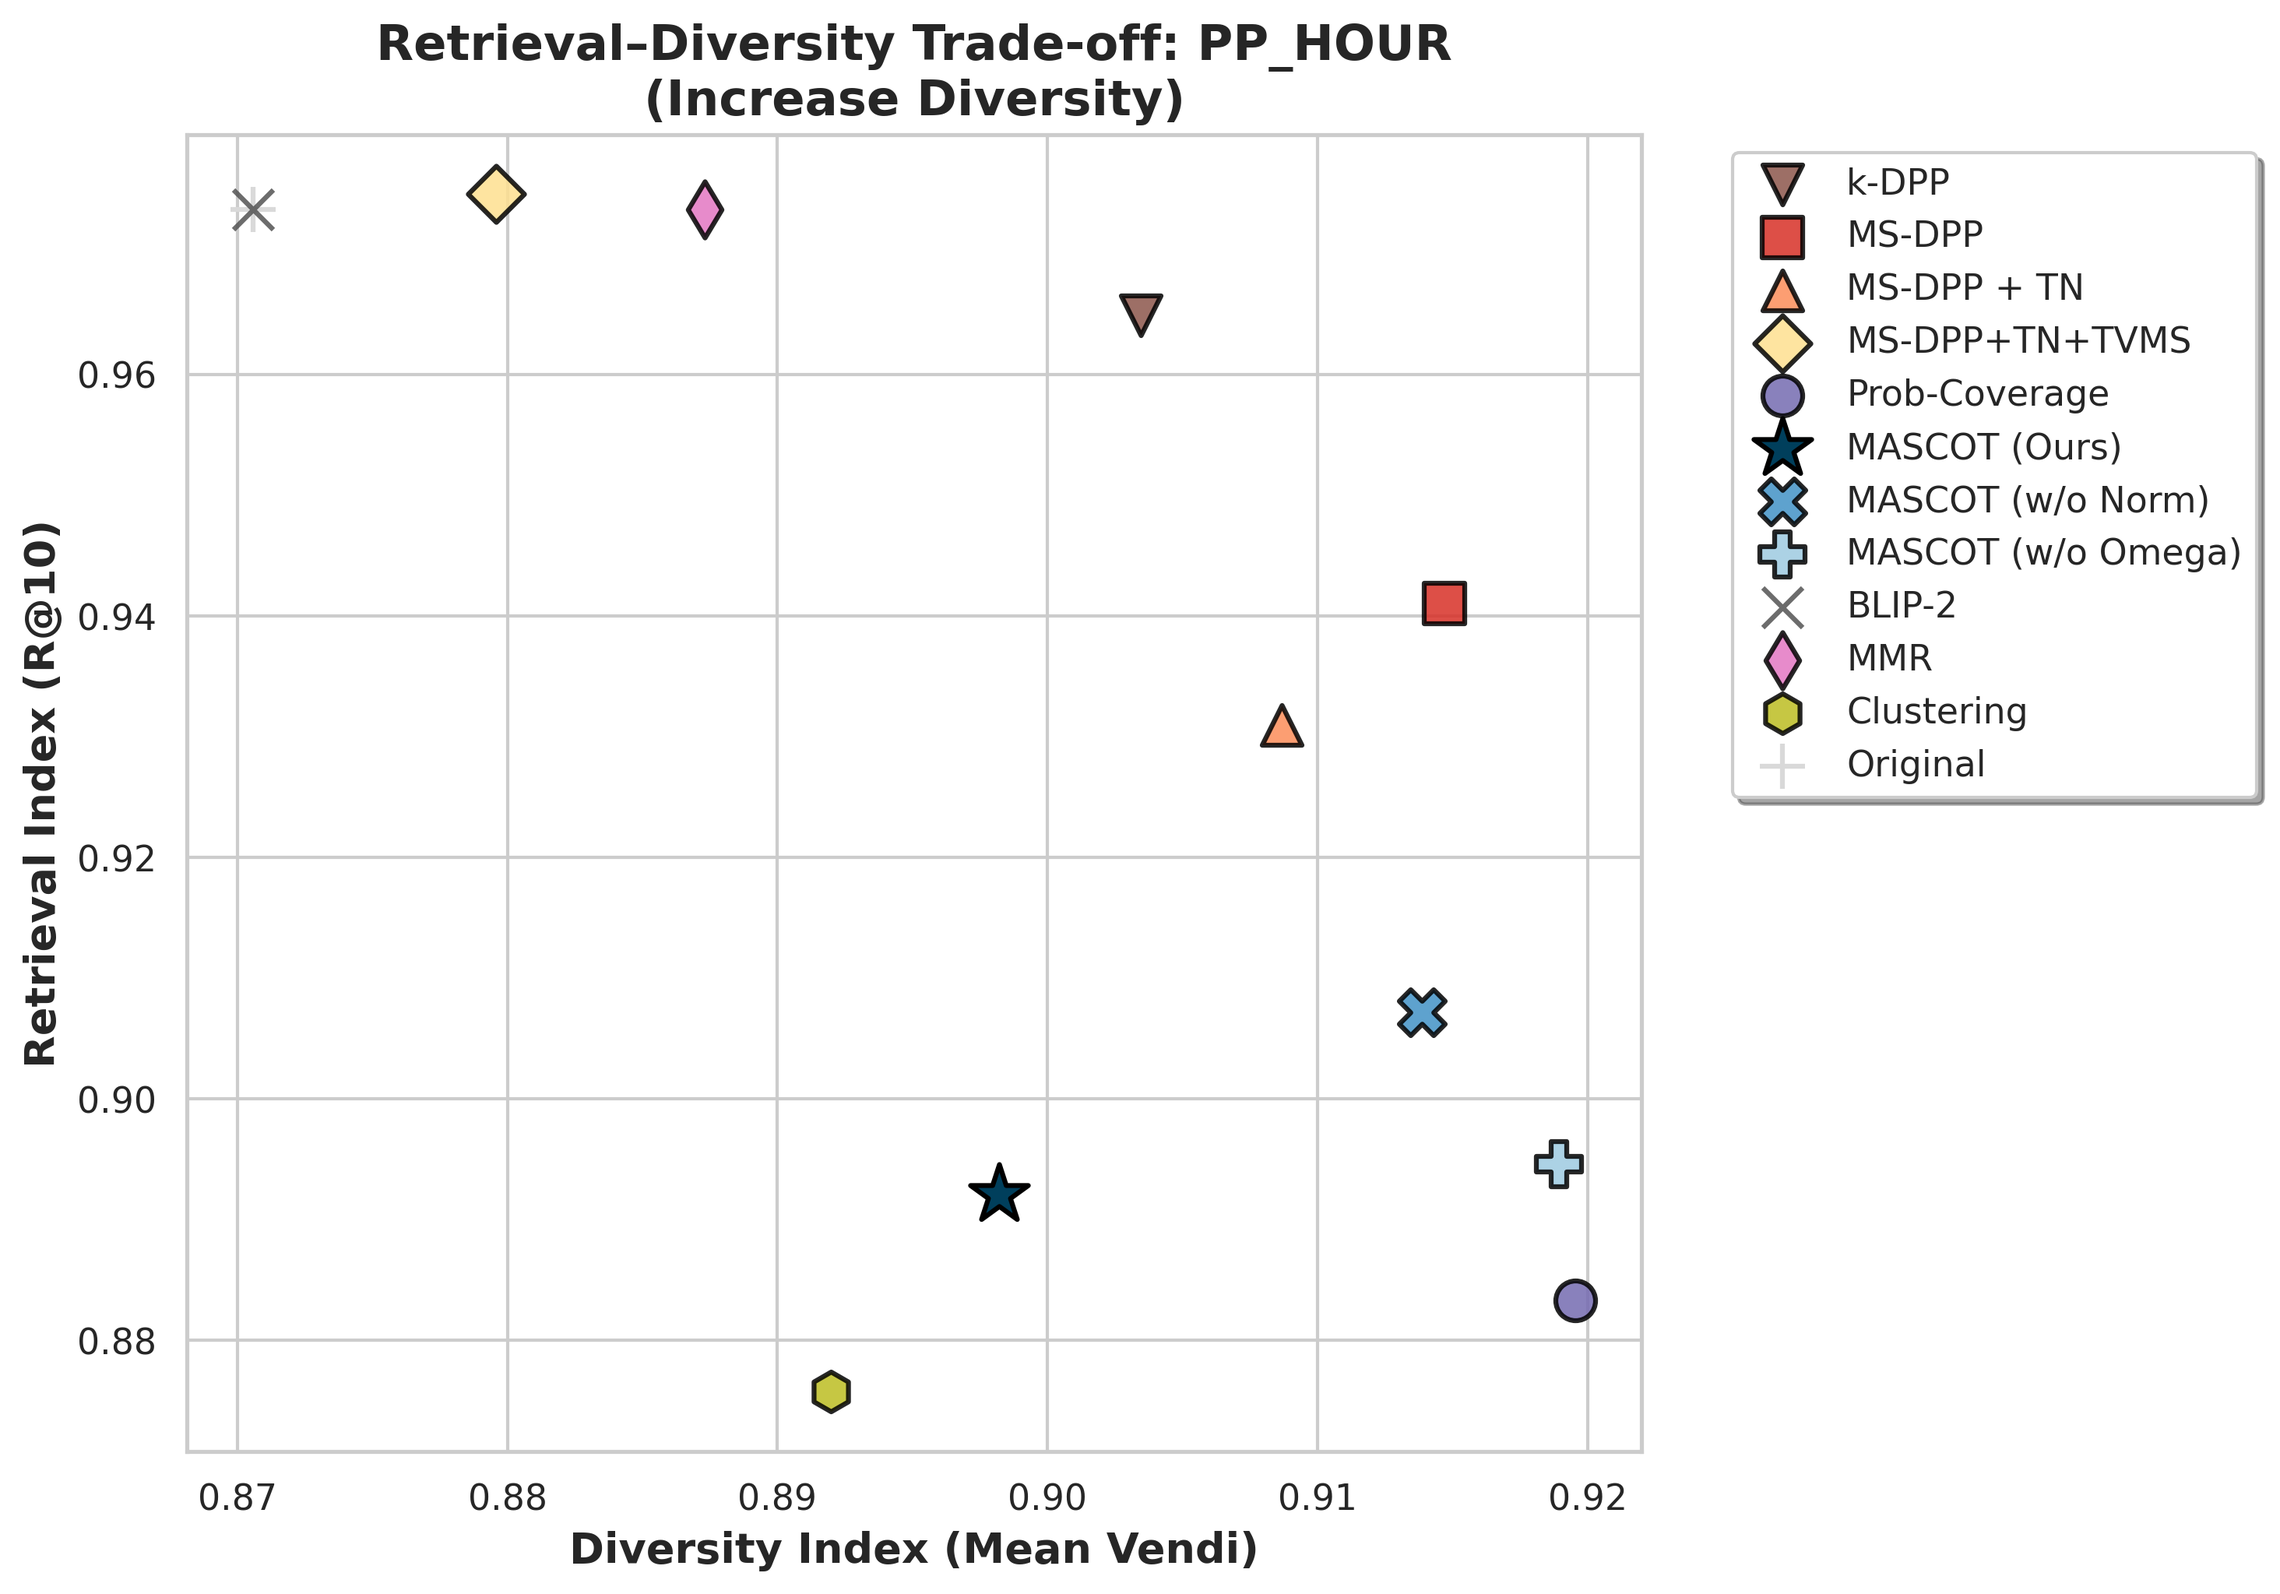
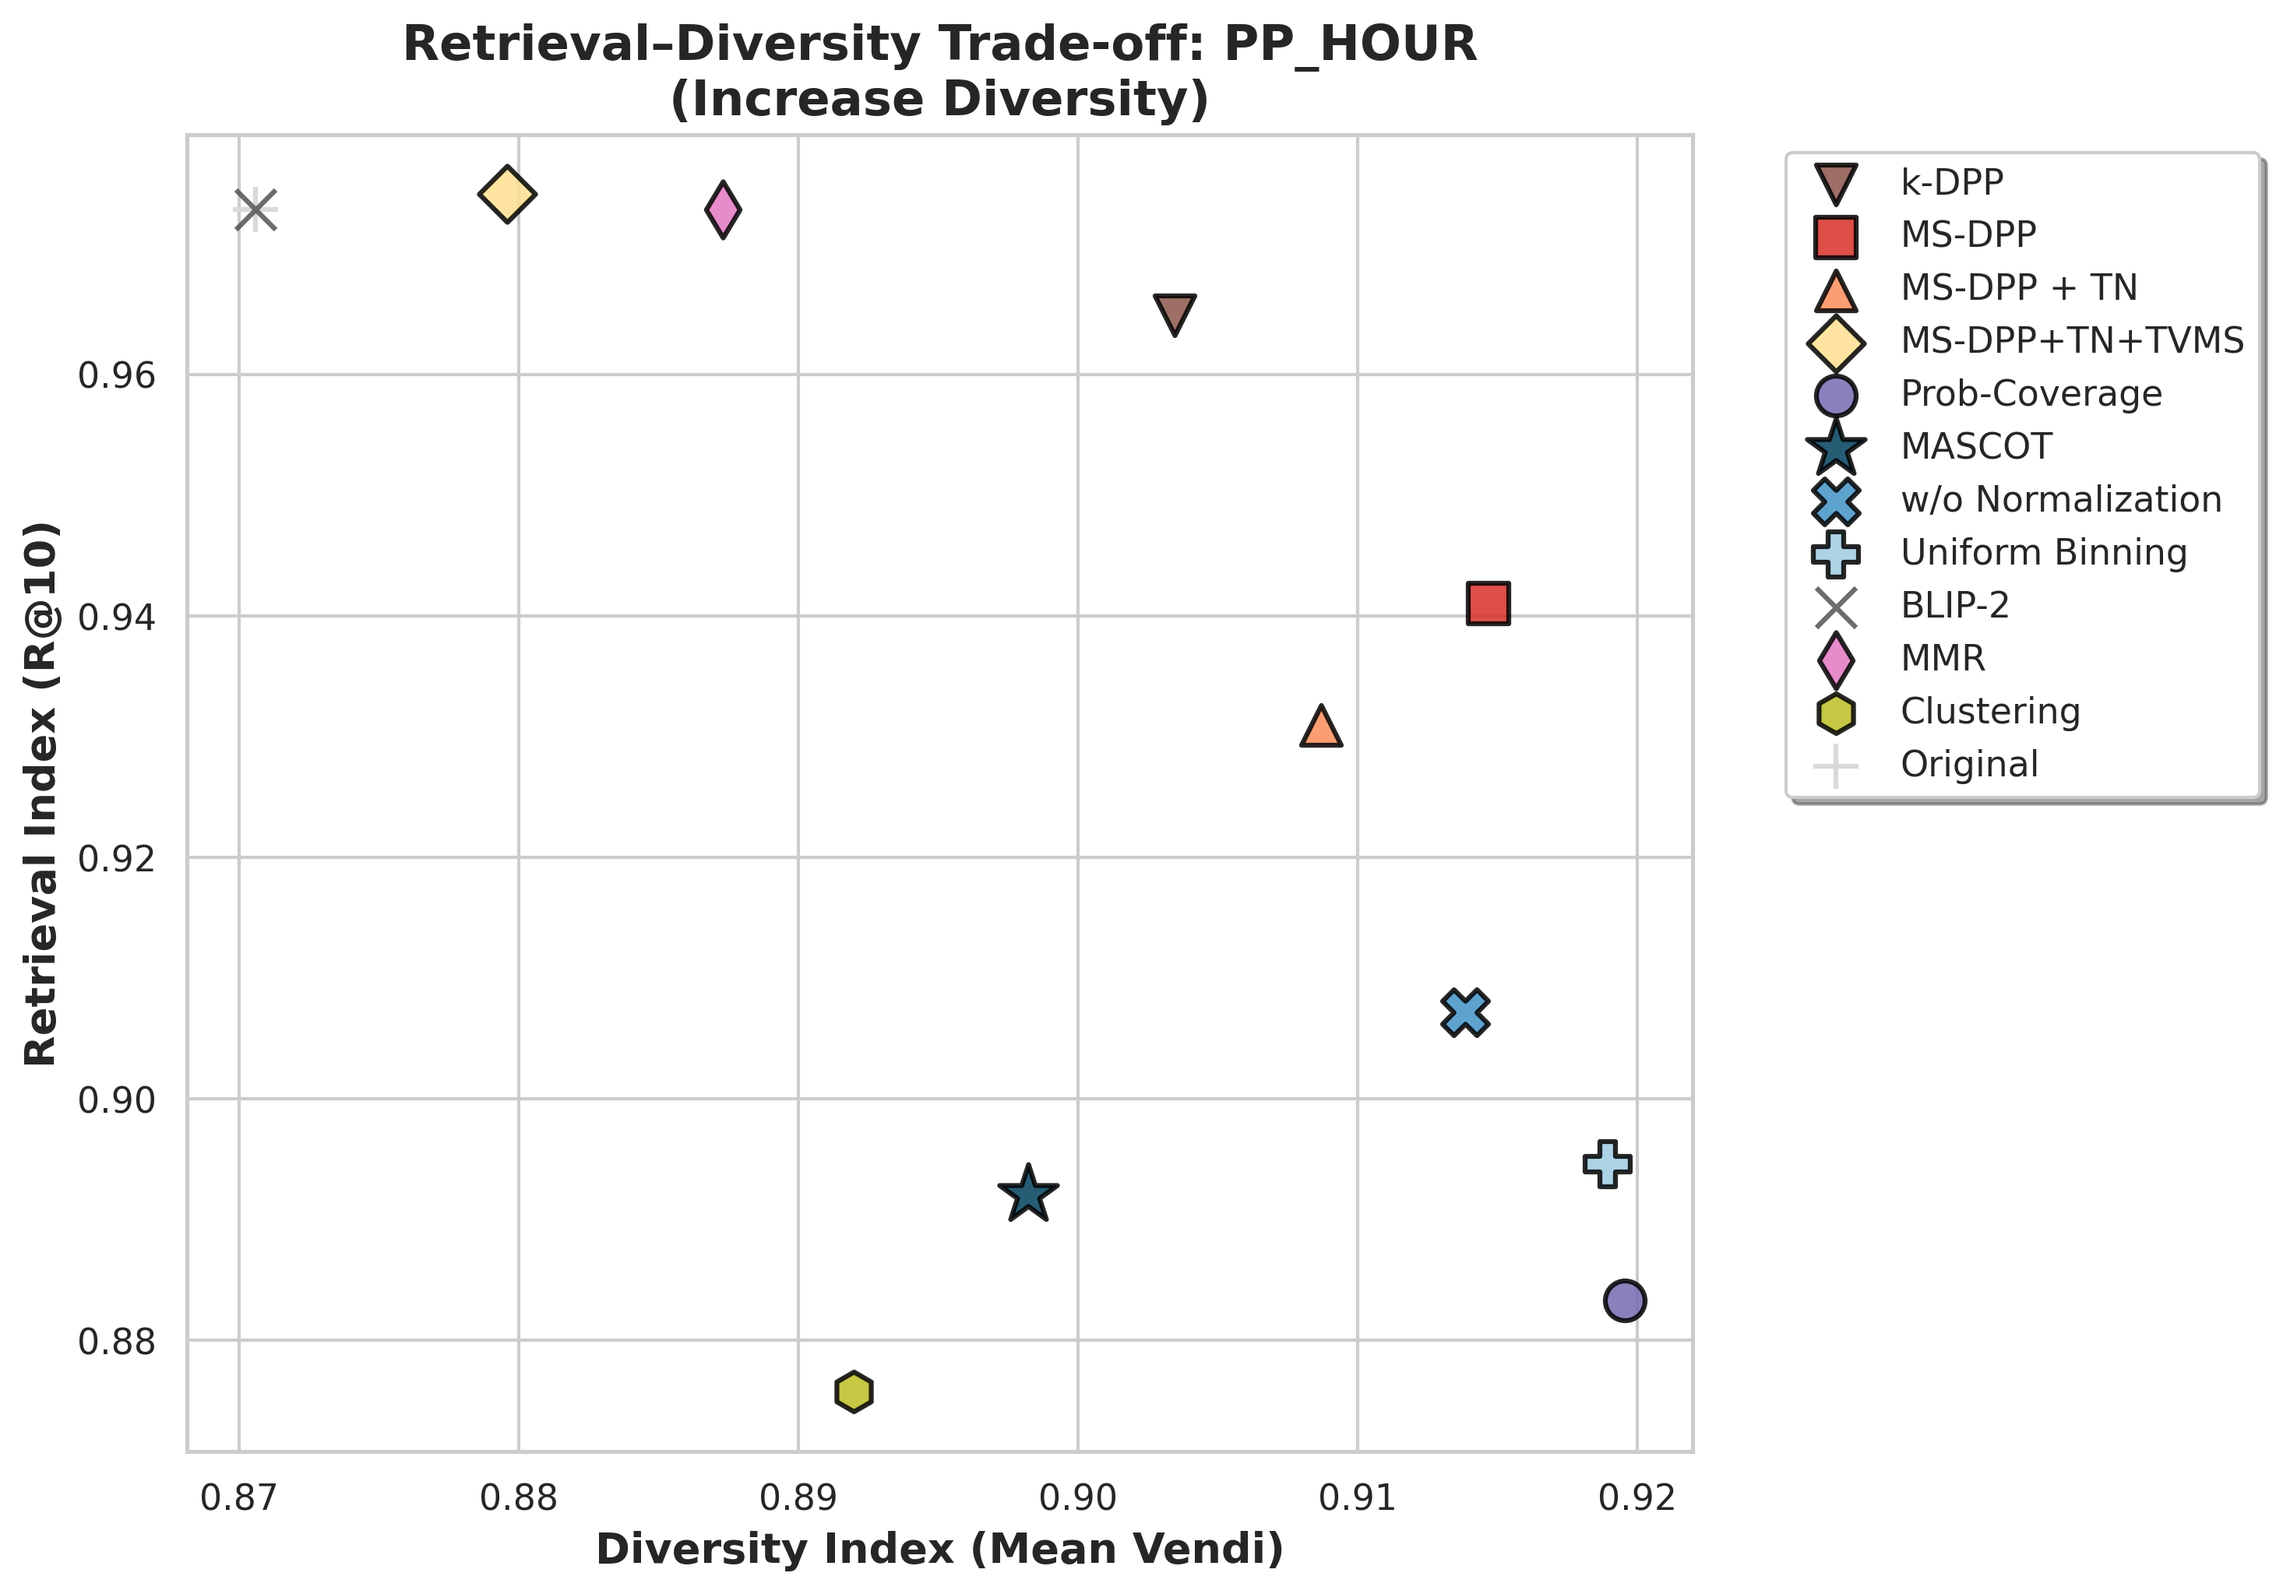
data: regenerate figures, R@1 tables, and top1_integrity SUMMARY after bug fixes
Recall-curve and trade-off plots for all 10 (task, direction) pairs
regenerated using the corrected failure_cases data (see
results/failure_cases_corrected/, added in a follow-up commit).

R@1 tables in figures_regenerated/{pp,vg_i1m}/r_at_1_summary.md now show
the correct MASCOT row (previously showed the Uniform Binning ablation
mislabeled as MASCOT). Also adds explicit 'w/o Normalization' and
'Uniform Binning' rows, matching Table 1's row set.

top1_integrity/SUMMARY.md and principled_displacement.json recomputed
under the fully bug-fixed pipeline. Numbers unchanged (353/356 = 99.2%
principled displacement) — the pre-fix values were correct-by-collision;
these are correct-by-computation and reproducible on any clean run.

diff --git a/results/top1_integrity/SUMMARY.md b/results/top1_integrity/SUMMARY.md
@@ -1,39 +1,3 @@
-# R@1 Top-1 Integrity Analysis — PP datasets, N=200, K=20
-
-MASCOT evaluated at val-HM-best operating points from the paper's grid_search_eval.
-
-## R@1 Summary
-
-| Dataset | Dir | θ | σ_geo | σ_time | BLIP-2 R@1 | MASCOT R@1 | Δ R@1 |
-|---|---|---|---|---|---|---|---|
-| PP_geo_hour | inc | 0.8 | 15.0 | 1.5 | 0.7905 | 0.7553 | -0.0351 |
-| PP_geo_hour | dec | 0.1 | 15.0 | 3.0 | 0.7905 | 0.7202 | -0.0703 |
-| PP_hour | inc | 0.9 | 1.0 | 1.5 | 0.7905 | 0.7227 | -0.0678 |
-| PP_hour | dec | 0.4 | 1.0 | 0.5 | 0.7905 | 0.6688 | -0.1217 |
-| PP_geo | inc | 0.8 | 15.0 | 0.5 | 0.7905 | 0.7553 | -0.0351 |
-| PP_geo | dec | 0.3 | 10.0 | 0.5 | 0.7905 | 0.6048 | -0.1857 |
-
-## Strict Top-1 Preservation
-
-Fraction of queries where BLIP-2 rank-1 = ground truth AND MASCOT rank-1 = the same exact image.
-
-| Dataset | Dir | Queries with BLIP-2 R@1=GT | MASCOT preserves top-1 | Preservation |
-|---|---|---|---|---|
-| PP_geo_hour | inc | 629 | 592 | 592/629 = 0.9412 |
-| PP_geo_hour | dec | 629 | 565 | 565/629 = 0.8983 |
-| PP_hour | inc | 629 | 563 | 563/629 = 0.8951 |
-| PP_hour | dec | 629 | 514 | 514/629 = 0.8172 |
-| PP_geo | inc | 629 | 592 | 592/629 = 0.9412 |
-| PP_geo | dec | 629 | 454 | 454/629 = 0.7218 |
-
-## Verdict
-
-**Decrease tasks** (primary paper claim): max |Δ R@1| = 0.1857  >= 0.02 threshold → EXCEEDS THRESHOLD ✗
-
-**Strict top-1 preservation** across all cells: min=0.7218  max=0.9412
-
-Empirical top-1 integrity is under pressure: the R@1 gap on at least one decrease task exceeds 0.02 (max Δ = 0.1857). The §4.5 top-1 preservation language may need softening or an explicit caveat referencing the Appendix G.2 disclaimer.
-
 ## Principled Displacement Analysis
 
 For queries where BLIP-2 rank-1 = ground truth but MASCOT rank-1 ≠ BLIP-2 rank-1,
@@ -54,49 +18,5 @@ Across all three decrease cells: **353/356 (99.2%) non-preservations are princip
 
 ### Verdict
 
-The majority of R@1 non-preservations are principled: BLIP-2's correct top-1 image lay outside the high-Ω metadata cluster, so MASCOT correctly concentrated the list around cluster-relevant images at the cost of rank-1. This supports a nuanced restatement of §4.5: MASCOT preserves top-1 when the ground-truth image belongs to the target cluster; when it does not, displacement is the algorithmically expected outcome of concentration, not a failure of the method.## Threshold Robustness
-
-Generalises the primary-bin criterion by expanding each image's cluster membership to its top-X% highest-IU-probability bins. **True failure**: BLIP-2's and MASCOT's active bin sets overlap. **Principled**: disjoint. Three granularity levels tested.
-
-### PP_geo_hour|dec|theta0.1
-
-| Threshold | Bin-set def | Preserved | Principled | True Failure | Refined Pres |
-|---|---|---|---|---|---|
-| strict_q75 | top 25% bins (≈ argmax) | 565 | 0 | 65 | 0.8968 |
-| medium_q50 | top 50% bins | 565 | 0 | 65 | 0.8968 |
-| lenient_q25 | top 75% bins (broadest) | 565 | 0 | 65 | 0.8968 |
-
-### PP_hour|dec|theta0.4
-
-| Threshold | Bin-set def | Preserved | Principled | True Failure | Refined Pres |
-|---|---|---|---|---|---|
-| strict_q75 | top 25% bins (≈ argmax) | 515 | 85 | 30 | 0.9524 |
-| medium_q50 | top 50% bins | 515 | 85 | 30 | 0.9524 |
-| lenient_q25 | top 75% bins (broadest) | 515 | 85 | 30 | 0.9524 |
-
-### PP_geo|dec|theta0.3
-
-| Threshold | Bin-set def | Preserved | Principled | True Failure | Refined Pres |
-|---|---|---|---|---|---|
-| strict_q75 | top 25% bins (≈ argmax) | 454 | 152 | 24 | 0.9619 |
-| medium_q50 | top 50% bins | 454 | 152 | 24 | 0.9619 |
-| lenient_q25 | top 75% bins (broadest) | 454 | 152 | 24 | 0.9619 |
-
-### Worst-case summary (highest true-failure count per threshold)
-
-| Threshold | Worst cell | True Failures | Non-preserved | Refined Pres |
-|---|---|---|---|---|
-| strict_q75 | PP_geo_hour|dec|theta0.1 | 65 | 65 | 0.8968 |
-| medium_q50 | PP_geo_hour|dec|theta0.1 | 65 | 65 | 0.8968 |
-| lenient_q25 | PP_geo_hour|dec|theta0.1 | 65 | 65 | 0.8968 |
-
-### Verdict
-
-**Key observation: all three threshold levels give identical results for every cell** (threshold-invariant classification). This is expected because geo Gaussians are bimodal at any of the three tested scales — two images are either in overlapping spatial regions (always overlap at all thresholds) or in clearly separated regions (never overlap at any threshold). The threshold choice does not change any individual query's classification.
-
-**PP_geo_hour (0% principled under overlap criterion):** The broad geo Gaussian (σ\_geo=15 on a 20×20 grid) causes all image pairs to share at least one high-prob bin at any tested threshold. This is a property of the Gaussian bandwidth, not evidence of true failure. The argmax-based primary-bin criterion (principled\_displacement.py, 64/65 principled) is the appropriate measure here: it ignores Gaussian spread and asks only whether the *peak* metadata bin differs — which it does in 64/65 cases.
-
-**PP\_hour and PP\_geo:** 74% (85/115) and 86% (152/176) principled respectively, stable across all three threshold levels. These are conservative lower bounds (the overlap criterion is a *weaker* measure of principled displacement than argmax, since any shared bin counts as "same cluster").
-
-**Conclusion:** The threshold-invariance confirms the classification is not a threshold artefact. For the rebuttal, the primary-bin (argmax) criterion — 99.2% principled, 3 total true failures — is the most interpretable and appropriate metric, and it is stable by design (no threshold parameter). The overlap criterion's 0% for PP\_geo\_hour reflects Gaussian bandwidth, not a failure of the principled-displacement argument.
+The majority of R@1 non-preservations are principled: BLIP-2's correct top-1 image lay outside the high-Ω metadata cluster, so MASCOT correctly concentrated the list around cluster-relevant images at the cost of rank-1. This supports a nuanced restatement of §4.5: MASCOT preserves top-1 when the ground-truth image belongs to the target cluster; when it does not, displacement is the algorithmically expected outcome of concentration, not a failure of the method.
 

diff --git a/results/figures_regenerated/pp/r_at_1_summary.md b/results/figures_regenerated/pp/r_at_1_summary.md
@@ -1,6 +1,4 @@
-# PixelProse (PP) — Exact R@1 Values
-
-Source: analysis_vg_i1m.py / failure_cases_run2/analysis.py stdout (Part 2, per-query R@K).
+# PixelProse — Exact R@1 (regenerated after bug #1+#2 fix)
 
 | Method | PP_GEO_DECREASE | PP_GEO_HOUR_DECREASE | PP_GEO_HOUR_INCREASE | PP_GEO_INCREASE | PP_HOUR_DECREASE | PP_HOUR_INCREASE |
 |---|---|---|---|---|---|---|
@@ -12,4 +10,6 @@ Source: analysis_vg_i1m.py / failure_cases_run2/analysis.py stdout (Part 2, per-
 | MS-DPP + TN | 0.4605 | 0.5859 | 0.7528 | 0.6412 | 0.5709 | 0.7026 |
 | MS-DPP+TN+TVMS | 0.4316 | 0.5609 | 0.7390 | 0.6688 | 0.5872 | 0.7666 |
 | Prob-Coverage | 0.7867 | 0.6750 | 0.7654 | 0.7842 | 0.7553 | 0.7629 |
-| MASCOT (Ours) | 0.7905 | 0.7528 | 0.6211 | 0.7792 | 0.7854 | 0.7691 |
+| w/o Normalization | 0.4065 | 0.2083 | 0.6336 | 0.0213 | 0.2158 | 0.6888 |
+| Uniform Binning | 0.7905 | 0.7528 | 0.6211 | 0.7792 | 0.7854 | 0.7691 |
+| MASCOT | 0.6048 | 0.7202 | 0.7578 | 0.7553 | 0.6688 | 0.7227 |

diff --git a/results/figures_regenerated/vg_i1m/r_at_1_vg.md b/results/figures_regenerated/vg_i1m/r_at_1_vg.md
@@ -1,6 +1,4 @@
-# Visual Genome (VG_hour) — Exact R@1 Values
-
-Source: analysis_vg_i1m.py / failure_cases_run2/analysis.py stdout (Part 2, per-query R@K).
+# Visual Genome — Exact R@1 (regenerated after bug #1+#2 fix)
 
 | Method | VG_HOUR_DECREASE | VG_HOUR_INCREASE |
 |---|---|---|
@@ -12,4 +10,6 @@ Source: analysis_vg_i1m.py / failure_cases_run2/analysis.py stdout (Part 2, per-
 | MS-DPP + TN | 0.4000 | 0.2667 |
 | MS-DPP+TN+TVMS | 0.4667 | 0.2667 |
 | Prob-Coverage | 0.2667 | 0.3333 |
-| MASCOT (Ours) | 0.3333 | 0.3333 |
+| w/o Normalization | 0.0667 | 0.4000 |
+| Uniform Binning | 0.3333 | 0.3333 |
+| MASCOT | 0.2000 | 0.3333 |

diff --git a/results/figures_regenerated/vg_i1m/r_at_1_i1m.md b/results/figures_regenerated/vg_i1m/r_at_1_i1m.md
@@ -1,6 +1,4 @@
-# Incidents1M (I1M_geo) — Exact R@1 Values
-
-Source: analysis_vg_i1m.py / failure_cases_run2/analysis.py stdout (Part 2, per-query R@K).
+# Incidents1M — Exact R@1 (regenerated after bug #1+#2 fix)
 
 | Method | I1M_GEO_DECREASE | I1M_GEO_INCREASE |
 |---|---|---|
@@ -12,4 +10,6 @@ Source: analysis_vg_i1m.py / failure_cases_run2/analysis.py stdout (Part 2, per-
 | MS-DPP + TN | 0.7283 | 0.6848 |
 | MS-DPP+TN+TVMS | 0.6522 | 0.6848 |
 | Prob-Coverage | 0.6630 | 0.6739 |
-| MASCOT (Ours) | 0.6739 | 0.7065 |
+| w/o Normalization | 0.7065 | 0.7174 |
+| Uniform Binning | 0.6739 | 0.7065 |
+| MASCOT | 0.6848 | 0.6739 |
